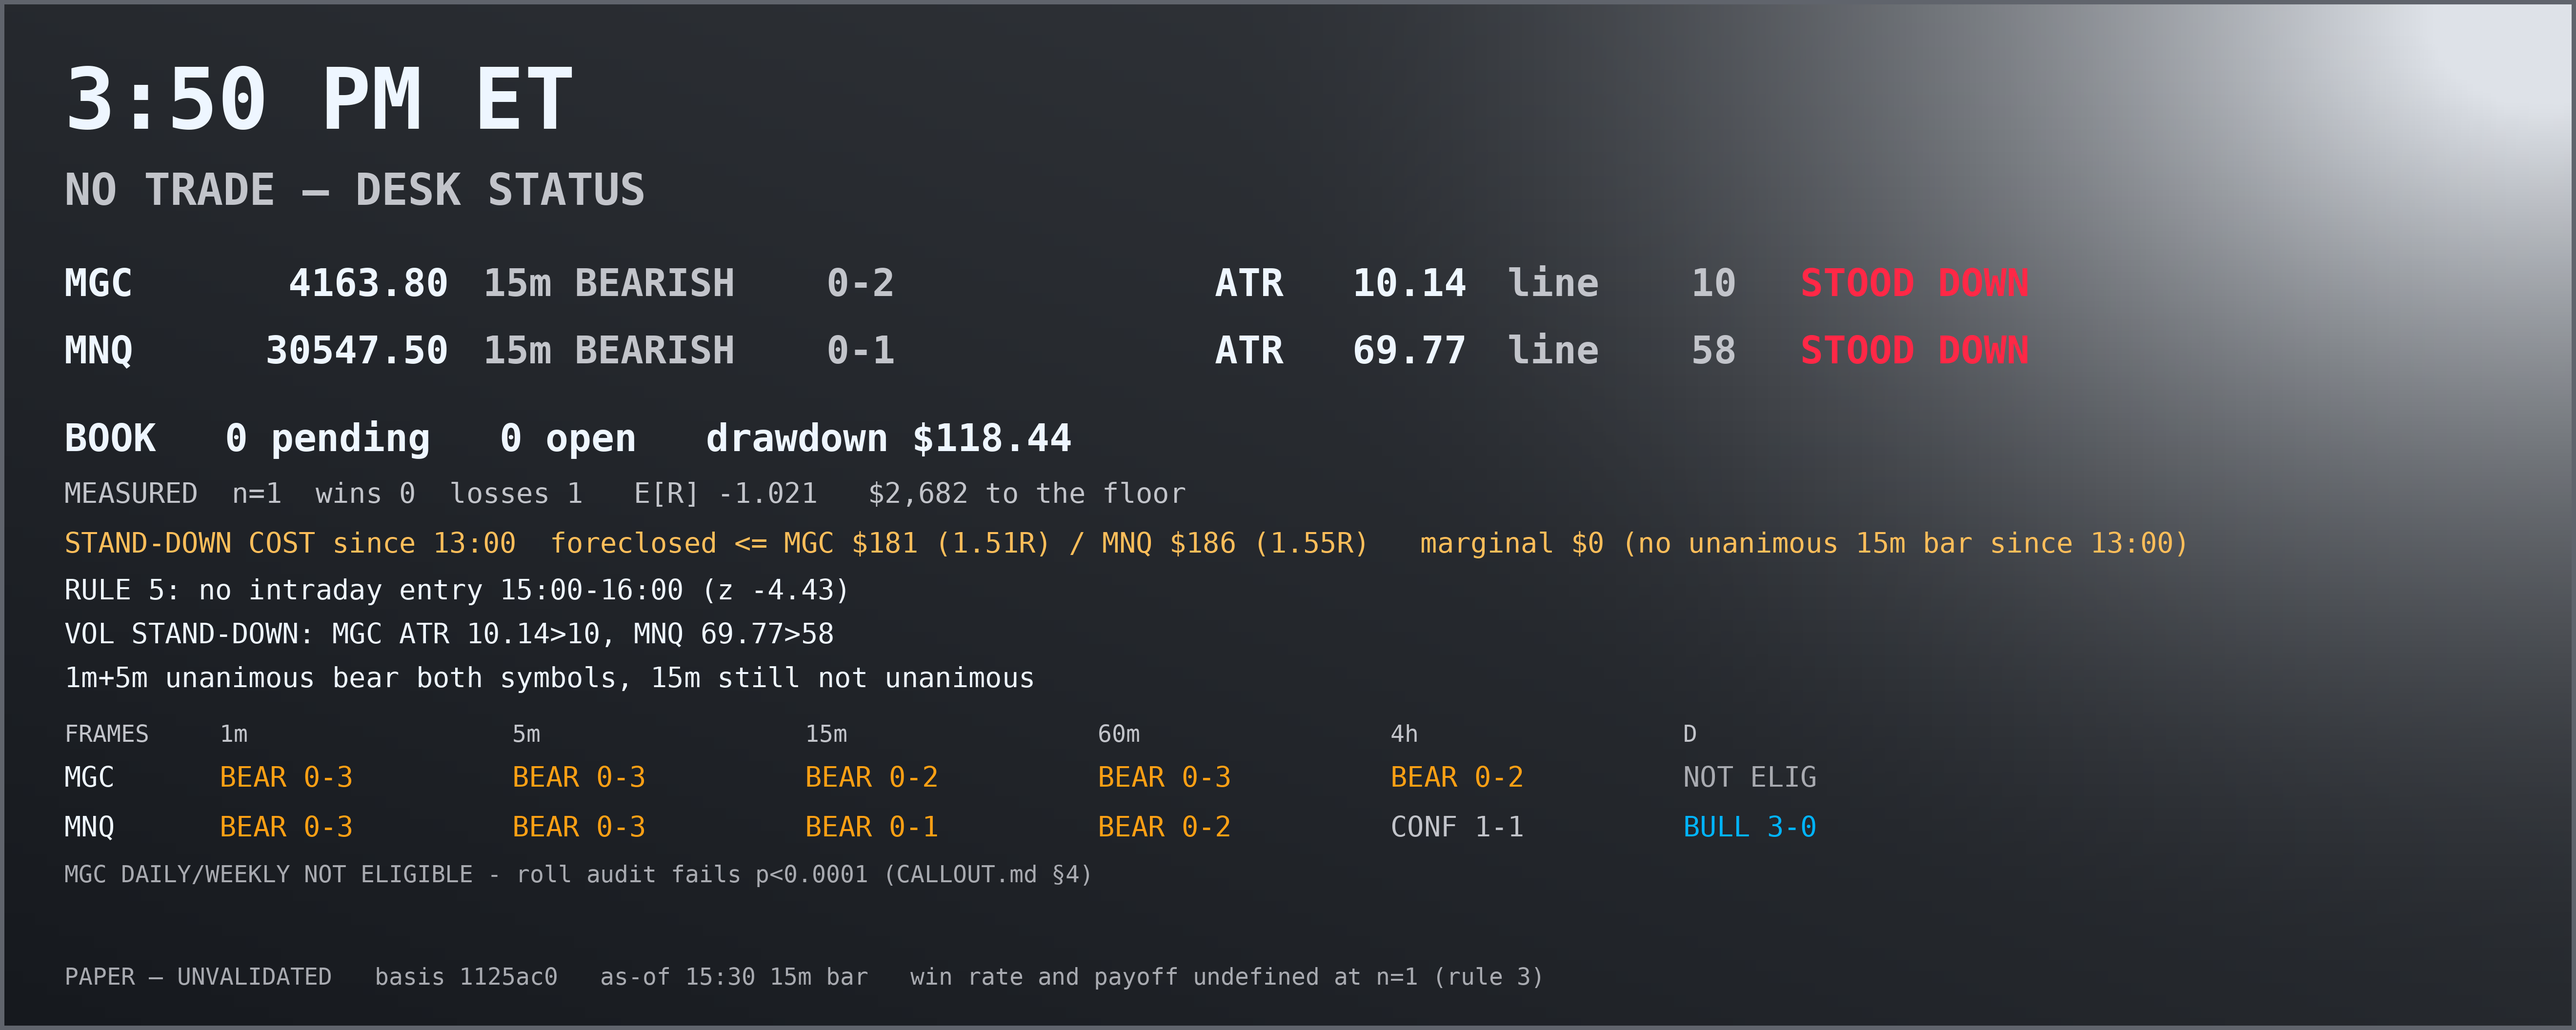
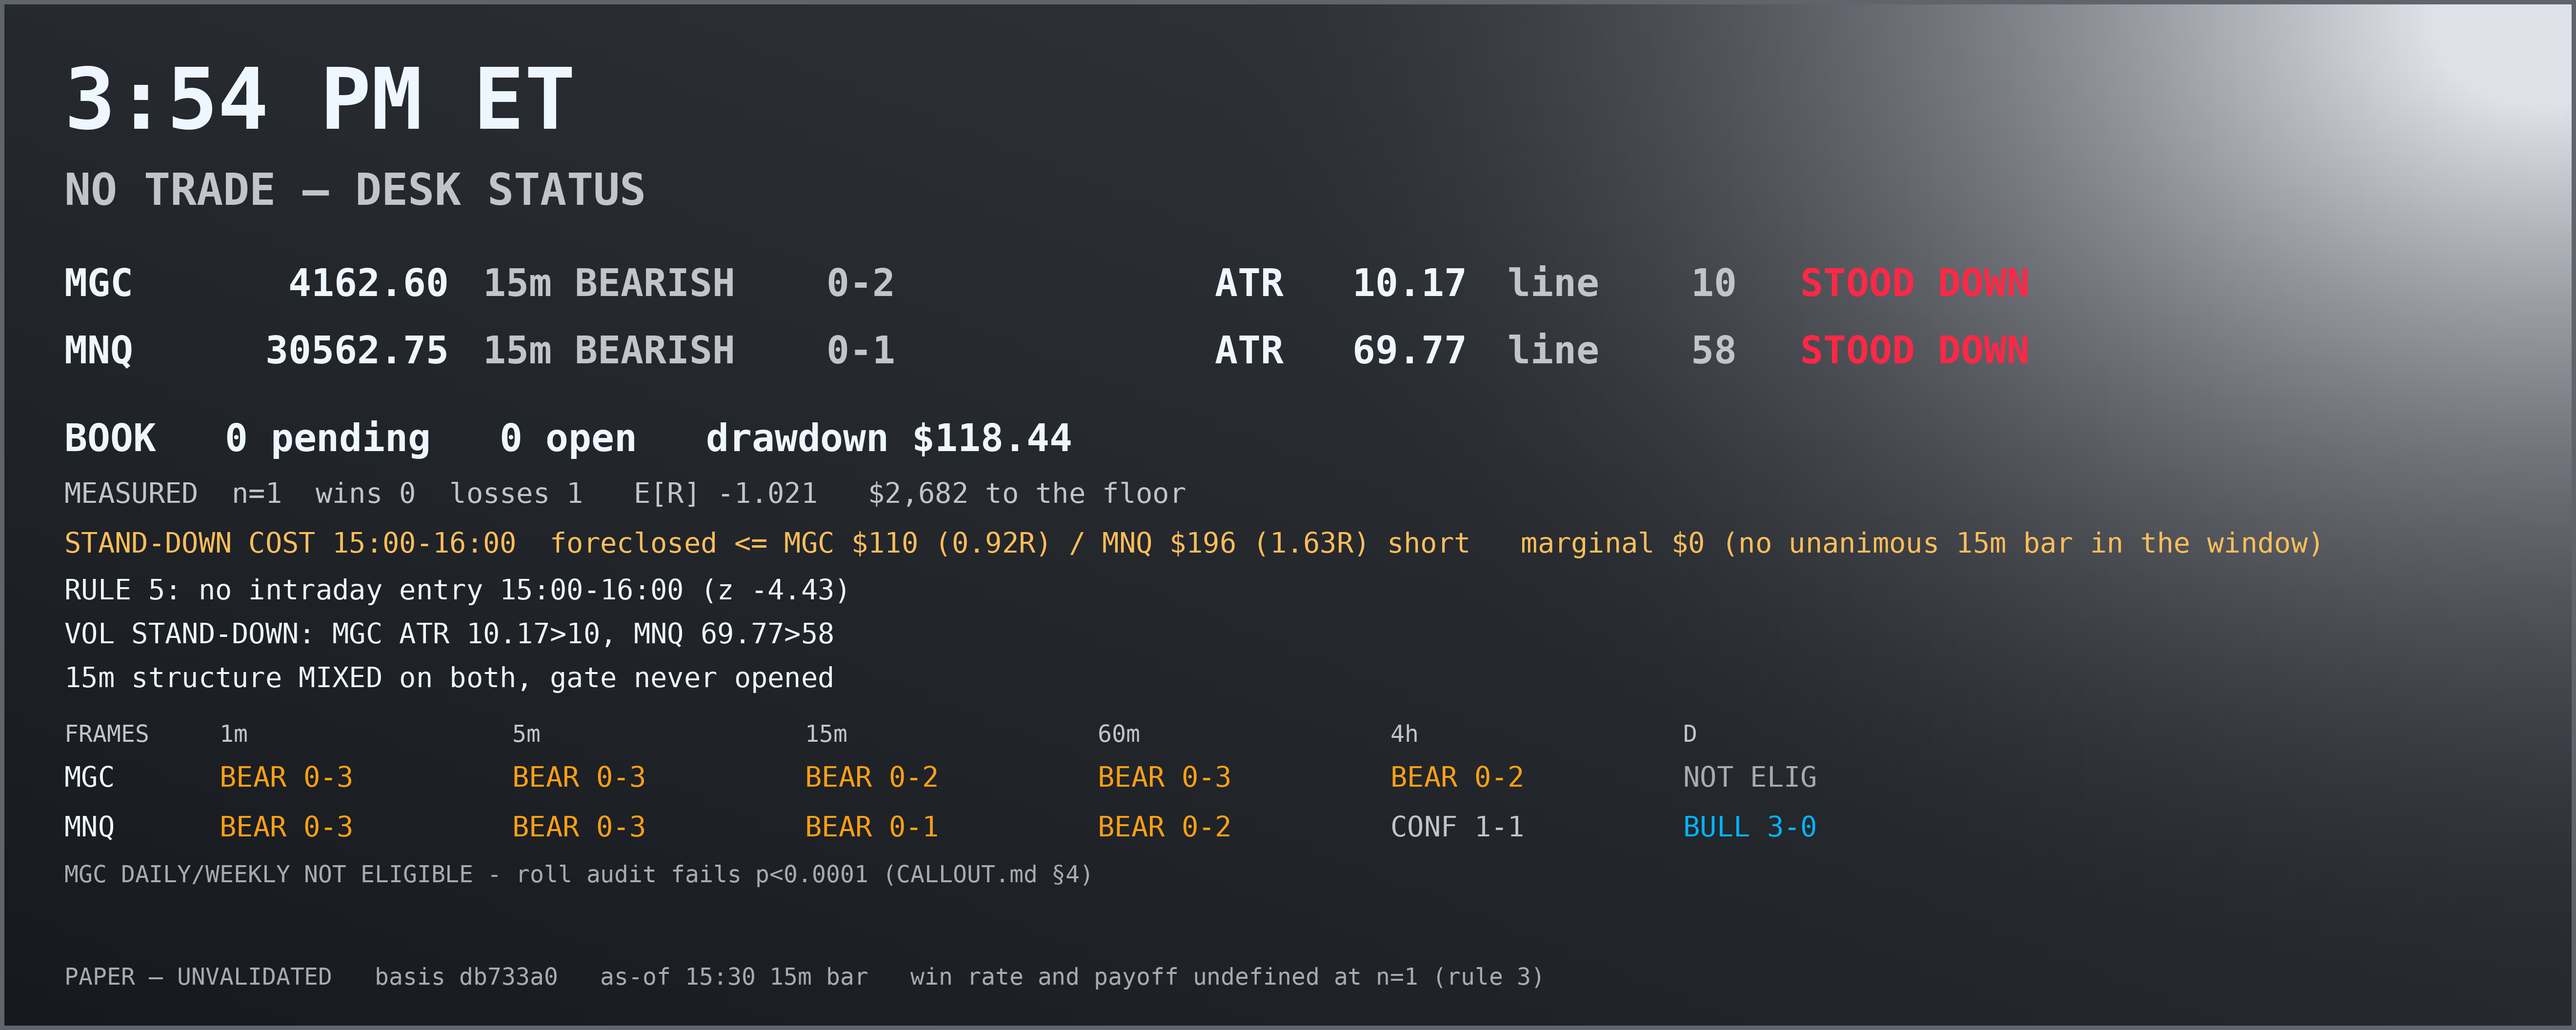
CALL desk: 15:52 hourly full check - cadence 5be2e70b alive at */2; every intraday frame bearish on both symbols and the 15m gate stayed shut all hour on MIXED structure; N220 records the hour, two revision-killed bull flips, and the ledger
Claude-Session: https://claude.ai/code/session_01EE6PFk7fGa2tM4KP6dpfWD

diff --git a/workspace/paper/CALL/NOTES.md b/workspace/paper/CALL/NOTES.md
@@ -7926,3 +7926,100 @@ unable to fire for the whole window, so the veto has had nothing to veto. What t
 has actually cost so far is the *option* to write a discretionary plan outside the gate — which
 is worth exactly as much as my discretion is, and the measured answer to that today is
 -$118.44 on one trade and a 3x-ATR trend declined on a test that could not be satisfied.
+
+---
+
+# N220 — 15:52 hourly full check: the cleanest one-way tape of the day, and the gate stayed shut all of it
+
+`basis db733a0`. Cadence job `5be2e70b` present at `*/2`, nothing re-armed, no second mechanism.
+Newest real bar 5m `15:40` on both, lag 12.8m, `new=0 revised=1` — the fetch that opened this check
+saw no new bar.
+
+## What the hour actually did
+
+Between 15:00 and 15:52 both symbols fell without a meaningful bounce. MGC 4172.30 → 4161.30 low,
+MNQ 30639.00 → 30541.25 low. By 15:50 **every eligible intraday frame on both symbols read bearish**,
+with 1m, 5m and MGC's 60m unanimous. That is the most one-sided the tape has been since the morning
+trend that produced N194.
+
+The desk took none of it, and the reason is a single component:
+
+    MGC 15m  0-2   trend BEAR, location BEAR, structure MIXED
+    MNQ 15m  0-1   trend BEAR, location MIXED, structure MIXED
+
+**`structure` stayed MIXED on both frames for the entire window**, because `swings()` compares the
+last two pivots and both symbols carry an unrepaired higher swing high — MGC 4172.90→4175.50,
+MNQ 30645.75→30650.75 — against their lower lows. A frame with one component dissenting is not
+unanimous, so `reversal()` returned false at every one of the ~26 checks in the window.
+
+## Why this is the system working and not the system failing
+
+Three separate prohibitions pointed the same way, and it is worth writing down that they agreed:
+
+1. **The gate.** No 15m unanimity on either symbol, at any check, in the whole hour.
+2. **Rule 5.** No intraday entry 15:00–16:00, z −4.43, median −0.617R, replicated.
+3. **N196, the breakout prohibition.** The trade the tape was advertising was *selling a break of
+   the short-term low in the direction of an established displacement* — measured at z −2.61 to
+   −4.72 versus random in 4 of 4 cells. It binds hardest exactly when the move looks most obvious.
+
+The uncomfortable part is that the move was real and the desk was flat for all of it. That is the
+shape of a correct refusal: it feels identical to a missed trade while it is happening, and the only
+thing that distinguishes them is whether the rule that refused was measured. All three of these were.
+
+## Two flips died on revisions this hour, and both would have been losses
+
+- **15:30** — MGC's 1m went 2-0 bull and 5m 1-0 bull with the close on its EMA20. By 15:32 the same
+  unclosed bar had restated down and the readings were 1-1 and 0-1. Nothing happened in the market.
+- **15:36** — MNQ's 15m flipped BULLISH 2-0 with the close back above its EMA20. By 15:38 the
+  restatement put it back below and the headline reverted to CONFLICTED. It never reached the
+  second consecutive check the detector requires.
+
+Both were bull flips into what turned out to be the low of a sustained decline. **The two-check
+requirement and N140 each independently prevented a long into a selloff.** This is the first day
+either has been observed catching the same error twice within twenty minutes.
+
+## Ledger, and the measured record stated separately
+
+Book (`state.json`): equity **$50,038.12**, peak $50,156.56, drawdown **$118.44**, realized +$38.12.
+0 open, 2 closed. Plans: 3 EXPIRED, 2 TRIGGERED, 1 VOID_UNREACHABLE.
+
+**Measured record, CALL-0002 EXCLUDED per N155:** n=1, 0 wins, 1 loss, **win rate 0% with payoff
+0.00** (no win to size against), expectancy **−1.021R**, total −1.021R, 0 ambiguous bars. One trade
+is not a record; quoting the win rate without the payoff beside it would be rule-3 malpractice in
+either direction.
+
+Distance to the $2,800 absorbing state: **$2,681.56**.
+
+## The decision cost, per N218
+
+15:00–16:00 window, both symbols stood down for the whole of it:
+
+- **Foreclosed** ≤ MGC $110 (0.92R) / MNQ $196 (1.63R) on the short side — the full favourable
+  excursion from the 15:00 open to the session low, one contract, not a profit I would have taken.
+- **Marginal $0.** No unanimous 15m bar printed in the window on either symbol, so the vetoes
+  refused nothing the gate would have passed. The stand-down and rule 5 cost the desk the *option*
+  to override its own gate discretionarily, and nothing else.
+
+Logged as row 15 in `DECISIONS.md`.
+
+## ATRs, re-measured this check, nothing inherited
+
+    MGC ATR14(15m)  10.17  vs line 10   STOOD DOWN  (+0.17)
+    MNQ ATR14(15m)  69.77  vs line 58   STOOD DOWN  (+11.77)
+
+MGC touched 10.09 at 15:46 — the closest it has come to clearing — and widened again as the decline
+extended. MNQ has not been below 67 all afternoon.
+
+## Carried forward, unchanged
+
+Still deferred to the parent session, still deliberately not installed mid-session: the `swings()`
+running-extreme fix (N102), a `reversal()` path that is not the only gate, resolving stops against
+1m bars to halve the blind spot, `chart.py`'s location anchor, and refusing future-dated or
+off-grid `created_bar_ts` at write time.
+
+**The `swings()` item is now the load-bearing one.** Today it is the single component that held the
+gate shut through a clean trend in both directions — the morning rally and this afternoon's
+decline. That does not make it wrong; a running-extreme comparison might have opened the gate on
+the same bar that a lower-high comparison refused, and there is no evidence yet which is better.
+But it is no longer a cosmetic defect, and the parent should test it against the archive before
+another session inherits it.

diff --git a/workspace/paper/CALL/DECISIONS.md b/workspace/paper/CALL/DECISIONS.md
@@ -54,6 +54,7 @@ the second is how a veto flatters itself and quoting only the first is how a tra
 | 13 | 14:57 | **Card background → diagonal with a radial hotspot in the top-right corner** (owner) | — | still grey, still cannot read as a direction; ink is now **sampled from the rendered background across each text run**, because with the light in one corner a y-only rule mis-colours every right-hand column and a single-point sample loses any string that starts dark and ends in the glow | — |
 | 12 | 14:52 | **Status card → silver gradient** (owner) | — | stays inside CALLOUT.md's grey NO TRADE family, so it still cannot be read as a direction; first render failed contrast in the mid-band and was fixed before sending | — |
 | 14 | 15:17 | **Stand-down held on both symbols** — MGC ATR14 10.44 > 10, MNQ 68.98 > 58; rule 5 also binds to 16:00 | foreclosed since 13:00 ≤ **MGC $181 (1.51R) / MNQ $186 (1.55R)** — full favourable excursion, not a profit I would have taken | **$0 marginal** — no unanimous 15m bar printed since 13:00, so no setup I would have entered was refused | — |
+| 15 | 15:52 | **Held the stand-down through the whole 15:00-16:00 window** — rule 5 plus MGC ATR 10.17>10 and MNQ 69.77>58, across 30 consecutive 2-min checks | foreclosed ≤ **MGC $110 (0.92R) / MNQ $196 (1.63R)** on the short side; both symbols fell all hour and I took none of it | **$0 marginal** — structure stayed MIXED on both 15m frames for the entire window, so the gate never opened and the vetoes refused nothing the desk would have taken | — |
 
 ### What the tally actually says
 
